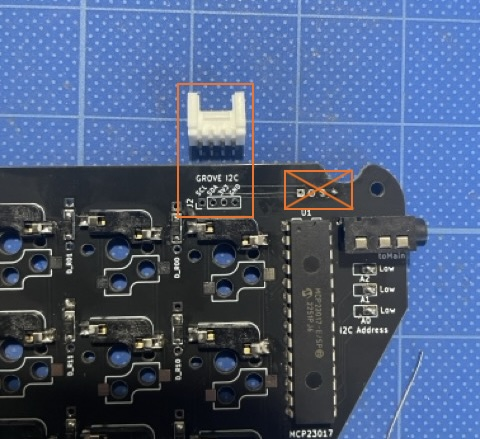
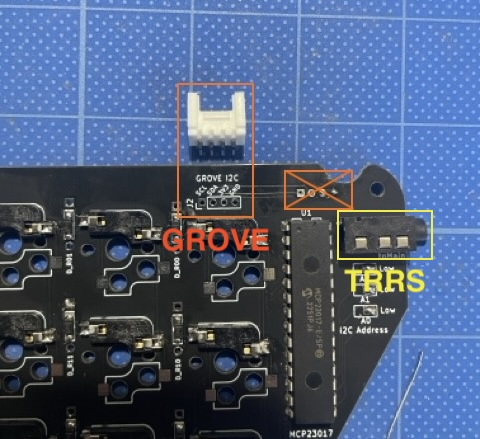
update buildguide

diff --git a/build_guide/standard/Japanese/07_サブボード.md b/build_guide/standard/Japanese/07_サブボード.md
@@ -43,11 +43,9 @@
 
 ![](../images/07/monkeypad_7_04.jpeg)
 
-[26]TRRSジャックをマスキングテープなどで固定すると作業しやすくなります。
+[26]TRRSジャックを取り付けます。TRRSジャックをマスキングテープなどで固定すると作業しやすくなります。
 
-![](../images/07/monkeypad_7_05.jpeg)
-
-I2Cの拡張コネクタである[31]GROVEコネクタを取り付けます。同じ2mmピッチの4ピンのスルーホールが近くにありますので間違えないように注意してください。
+I2Cの拡張コネクタである[31]GROVEコネクタを取り付けます。***重要*** 2mmピッチの4ピンのスルーホールが近くにありますので場所を間違えないように注意してください。
 
 GROVE I2Cと印刷されているパッドに上向きに取り付けます。
 
@@ -61,12 +59,12 @@ GROVE I2Cと印刷されているパッドに上向きに取り付けます。
 
 ![](../images/07/monkeypad_7_09.jpeg)
 
-I2C Addressのソルダージャンパーをはんだを流し込んでショートさせます。これは、IOエキスパンダのI2Cアドレスを指定するものです。A0, A1, A2をすべてLowにショートさせます。
+I2C Addressのソルダージャンパーをはんだを流し込んでショートさせます。これは、IOエキスパンダのI2Cアドレスを外部から指定するものです。A0, A1, A2をすべてLow側にショートさせます。
 
 パッドをこて先で温めてから、はんだを溶かすとブリッジできます。
 ![](../images/07/monkeypad_7_10.jpeg)
 
-※ I2Cアドレスを変更したい場合は反対側の面にHighがあります。Lowと表面のHighの両方を同時にショートさせて、電源に接続しないでください。故障する可能性があります。変更する場合はソースコード、ファームウェアもあわせて変更する必要があります。
+※ （上級者向け）I2Cアドレスを変更したい場合は反対側の面にHighがあります。Lowと表面のHighの両方を同時にショートさせて、電源に接続しないでください。故障する可能性があります。変更する場合はソースコード、ファームウェアもあわせて変更する必要があります。
 
 サブボードの完成です。
 
